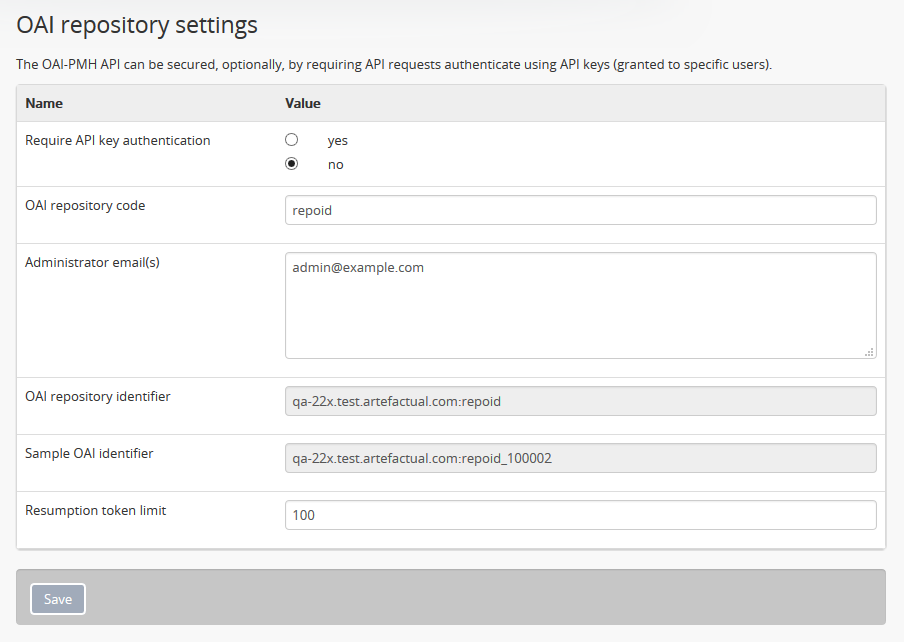
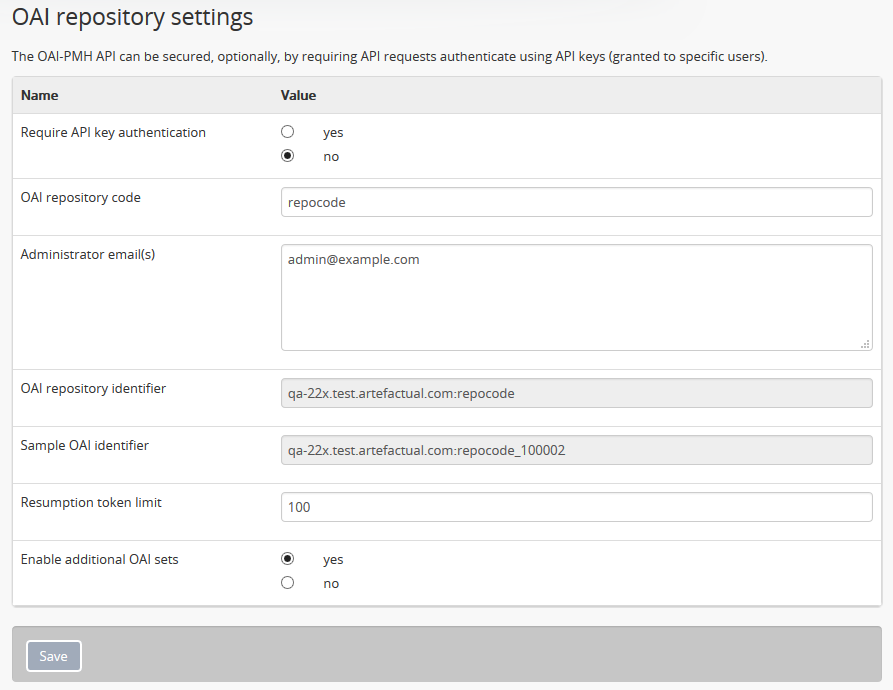
add virtual sets to oai-pmh

diff --git a/user-manual/import-export/oai-pmh.rst b/user-manual/import-export/oai-pmh.rst
@@ -198,9 +198,41 @@ request that continues where the previous one terminated.
    time out during the response to a request. We recommend keeping this value
    at 100 or lower.
 
-.. SEEALSO::
+**Enable additional OAI sets**
 
-   * :ref:`settings`
+This setting allows AtoM to expose "virtual sets." Currently in AtoM, each
+:term:`archival unit` (e.g. a description and all its
+:term:`children <child record>`, such as a :term:`fonds`, :term:`collection`,
+etc) is considered a set and is given a ``<setSpec>`` value when responding to
+requests such as :ref:`oai-list-sets` or :ref:`oai-list-records`.
+
+However, thanks to the flexible nature of OAI-PMH, AtoM can also expose virtual
+sets, representing different groupings of records or different criteria for
+exposure. At present, the only supported additional or "virtual" set in AtoM
+is a virtual set that will only expose top-level descriptions (i.e. no children
+will be included in the response). We hope to add further additional sets in
+future versions of AtoM.
+
+**Available additional sets**
+
+=============================== ============================= ============
+Set name                        Set Spec                      AtoM version
+=============================== ============================= ============
+Top-level collection record set oai:virtual:top-level-records 2.2.0
+=============================== ============================= ============
+
+When this setting is set to "Yes," the virtual sets available can be used by
+harvesters as criteria when issuing requests - for example, to issue a Get Records
+request limited to top-level records:
+
+.. code:: bash
+
+   http://example-site.com/;oai?verb=ListRecords&metadataPrefix=oai_dc&set=oai:virtual:top-level-records
+
+The virtual sets available in AtoM can also be seen as part of the response to a
+:ref:`oai-list-sets` request.
+
+See the :ref:`oai-pmh-verbs` section below for further examples.
 
 :ref:`Back to top <oai-pmh>`
 
@@ -304,8 +336,8 @@ OAI-PMH verbs in AtoM
 =====================
 
 Below you will find a few examples of available OAI request verbs that AtoM
-will support, along with some example responses. For more details, see the OAI
--PMH 2.0 documentation, available at:
+will support, along with some example responses. For more details, see the
+OAI-PMH 2.0 documentation, available at:
 
 * http://www.openarchives.org/OAI/2.0/openarchivesprotocol.htm
 
@@ -436,8 +468,7 @@ harvesting of headers based on set membership and/or datestamp. The
 
 **Example response:**
 
-Example is truncated for brevity. A resumption token is included in the
-example.
+A resumption token is included in the example.
 
 .. code:: bash
 
@@ -452,17 +483,17 @@ example.
         <header>
           <identifier>oai:example-site.com:yourrepocode_10267</identifier>
           <datestamp>2011-11-23T04:18:02Z</datestamp>
-          <setSpec>None</setSpec>
+          <setSpec>oai:example-site.com:yourrepocode_10267</setSpec>
         </header>
         <header>
           <identifier>oai:example-site.com:yourrepocode_10269</identifier>
           <datestamp>2011-11-23T04:18:03Z</datestamp>
-          <setSpec>None</setSpec>
+          <setSpec>oai:example-site.com:yourrepocode_10269</setSpec>
         </header>
         <header>
           <identifier>example-site.com:yourrepocode_10272</identifier>
           <datestamp>2011-11-23T04:18:04Z</datestamp>
-          <setSpec>None</setSpec>
+          <setSpec>example-site.com:yourrepocode_10272</setSpec>
         </header>
         <resumptionToken>from=&until=&cursor=100</resumptionToken>
       </ListIdentifiers>
@@ -536,9 +567,6 @@ selective harvesting of records based on set membership and/or datestamp. The
 
 **Example response:**
 
-Example has been truncated to one record for brevity. Normally each record
-would appear contained within the ``<record>`` element.
-
 .. code:: bash
 
    <?xml version="1.0" encoding="utf-8" ?>
@@ -553,7 +581,7 @@ would appear contained within the ``<record>`` element.
              <header>
                <identifier>oai:example-site.com:repocode_666</identifier>
                <datestamp>2010-06-14T05:25:50Z</datestamp>
-               <setSpec>oai:oai:example-site.com:repocode_111</setSpec>
+               <setSpec>oai:oai:example-site.com:repocode_666</setSpec>
              </header>
              <metadata>
                <oai_dc:dc xmlns="http://purl.org/dc/elements/1.1/"
@@ -575,6 +603,16 @@ would appear contained within the ``<record>`` element.
            <resumptionToken>from=&until=&cursor=100</resumptionToken>
          </ListRecords>
      </OAI-PMH>
+
+If you have enabled the "Additional sets" setting, (see above
+:ref:`oai-pmh-settings`), a virtual set parameter could also be used.
+
+**Example request, limited to top-level records (virtual set)**
+
+.. code:: bash
+
+   http://example-site.com/;oai?verb=ListRecords&metadataPrefix=oai_dc&set=oai:virtual:top-level-records
+
 
 See the :ref:`oai-list-identifiers` examples above for guidance on using some
 of the additional arguments, such as ``from``, ``until``, and the
@@ -628,7 +666,7 @@ requested and the format of the metadata that should be included in the record.
         <header>
           <identifier>oai:example-site.com:repoid_10555</identifier>
           <datestamp>2011-11-23T04:18:02Z</datestamp>
-          <setSpec>None</setSpec>
+          <setSpec>oai:example-site.com:repoid_10555</setSpec>
         </header>
         <metadata>
           <oai_dc:dc xsi:schemaLocation="http://www.openarchives.org/OAI/2.0/oai_dc/ http://www.openarchives.org/OAI/2.0/oai_dc.xsd">
@@ -710,9 +748,6 @@ link to the  digital object in the OAI response, using
     </GetRecord>
     </OAI-PMH>
 
-
-
-
 .. _oai-list-sets:
 
 List sets
@@ -723,6 +758,13 @@ selective harvesting. For a long request (e.g. a repository with many sets), a
 resumption token may be supplied - the ``resumptionToken`` is the only
 parameter supported by this verb.
 
+.. TIP::
+
+   Note that available virtual sets, including the setName and setSpec, will
+   also be included in a List sets response. The example response below includes
+   a virtual set example. For more information, see the :ref:`oai-pmh-settings`
+   section above.
+
 **Example request**
 
 .. code:: bash
@@ -730,15 +772,6 @@ parameter supported by this verb.
    http://example-site.com/;oai?verb=ListSets
 
 **Example response**
-
-The response has been truncated to just a few examples for brevity.
-
-.. IMPORTANT::
-
-   At the moment, the ``setSpec`` is not being populated in AtoM as part of
-   this response. This is a known bug we hope to fix in a future release; see
-   `#6436 <https://projects.artefactual.com/issues/6436>`__ for further
-   details.
 
 .. code:: bash
 
@@ -751,36 +784,40 @@ The response has been truncated to just a few examples for brevity.
       <request verb="ListSets">http://example-site.com/;oai</request>
       <ListSets>
           <set>
-            <setSpec></setSpec>
+            <setSpec>oai:example-site.com:repocode_16490</setSpec>
             <setName>Fonds S720 - Canadian Water Resources Association fonds</setName>
           </set>
           <set>
-            <setSpec></setSpec>
+            <setSpec>oai:example-site.com:repocode_16496</setSpec>
             <setName>Fonds S714 - Clara Bernhardt fonds</setName>
           </set>
           <set>
-            <setSpec></setSpec>
+            <setSpec>oai:example-site.com:repocode_16502</setSpec>
             <setName>Fonds U250 - Herman Overgaard fonds</setName>
           </set>
           <set>
-            <setSpec></setSpec>
+            <setSpec>oai:example-site.com:repocode_16503</setSpec>
             <setName>Fonds C61 - Emily Stowe and Augusta Stowe Gullen collection</setName>
           </set>
           <set>
-            <setSpec></setSpec>
+            <setSpec>oai:example-site.com:repocode_16510</setSpec>
             <setName>Fonds U121 - Nils Willison fonds</setName>
           </set>
           <set>
-            <setSpec></setSpec>
+            <setSpec>oai:example-site.com:repocode_16512</setSpec>
             <setName>Fonds S735 - Ray Houser fonds</setName>
           </set>
           <set>
-            <setSpec></setSpec>
+            <setSpec>oai:example-site.com:repocode_16513</setSpec>
             <setName>Fonds U129 - Robert Langen fonds</setName>
           </set>
           <set>
-            <setSpec></setSpec>
+            <setSpec>oai:example-site.com:repocode_16518</setSpec>
             <setName>Fonds U251 - Seminette Club fonds</setName>
+          </set>
+          <set>
+            <setSpec>oai:virtual:top-level-records</setSpec>
+            <setName>Top-level collection record set</setName>
           </set>
         </ListSets>
       </OAI-PMH>
